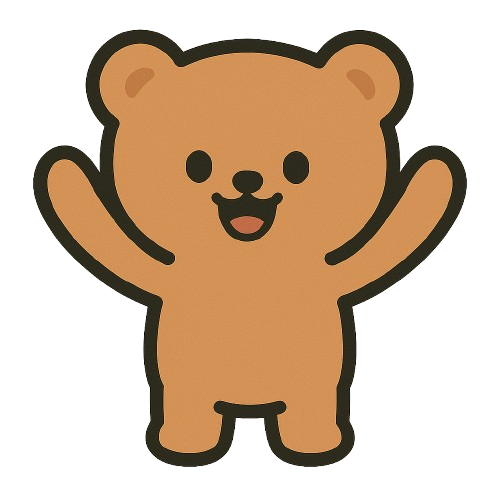
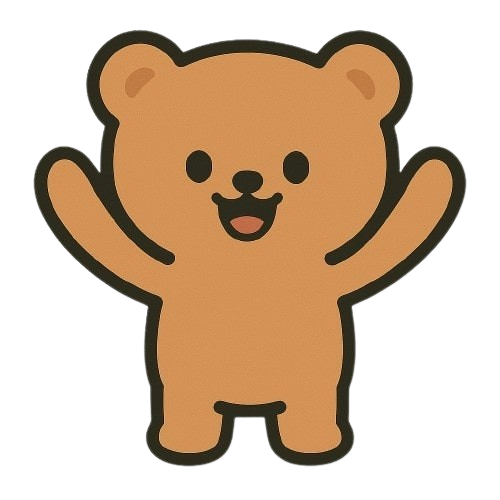
checkpoint

diff --git a/index.html b/index.html
@@ -20,16 +20,16 @@
     </div>
     <div class="columns is-mobile is-multiline is-centered" style="max-width: 600px; margin: 0 auto;">
       <div class="column is-half-mobile is-one-third-tablet">
-        <office-card name="Food" image="./assets/images/food_selector.png" @click="navigateTo('food')"></office-card>
+        <office-card name="Food" image="./assets/images/food_selector.jpg" @click="navigateTo('food')"></office-card>
       </div>
       <div class="column is-half-mobile is-one-third-tablet">
-        <office-card name="Documents" image="./assets/images/todo.png" @click="navigateTo('todo')"></office-card>
+        <office-card name="Documents" image="./assets/images/todo.jpg" @click="navigateTo('todo')"></office-card>
       </div>
       <div class="column is-half-mobile is-one-third-tablet">
-        <office-card name="Mail" image="./assets/images/compliment.png" @click="navigateTo('compliment')"></office-card>
+        <office-card name="Mail" image="./assets/images/compliment.jpg" @click="navigateTo('compliment')"></office-card>
       </div>
       <div class="column is-half-mobile is-one-third-tablet">
-        <office-card name="Photos" image="./assets/images/calendar.png" @click="navigateTo('calendar')"></office-card>
+        <office-card name="Photos" image="./assets/images/calendar.jpg" @click="navigateTo('calendar')"></office-card>
       </div>
     </div>
   </div>

diff --git a/components/ComplimentGenerator.js b/components/ComplimentGenerator.js
@@ -32,8 +32,8 @@ app.component('compliment-generator', {
                 "You bring out the best in others!",
                 "You're making a real difference!"
             ],
-            idleBearImage: './assets/images/bear-idle.png',
-            talkingBearImage: './assets/images/bear-talking.png',
+            idleBearImage: './assets/images/bear-idle.jpg',
+            talkingBearImage: './assets/images/bear-talking.jpg',
             timer: null,
             typingInterval: null,
             animationInterval: null,
